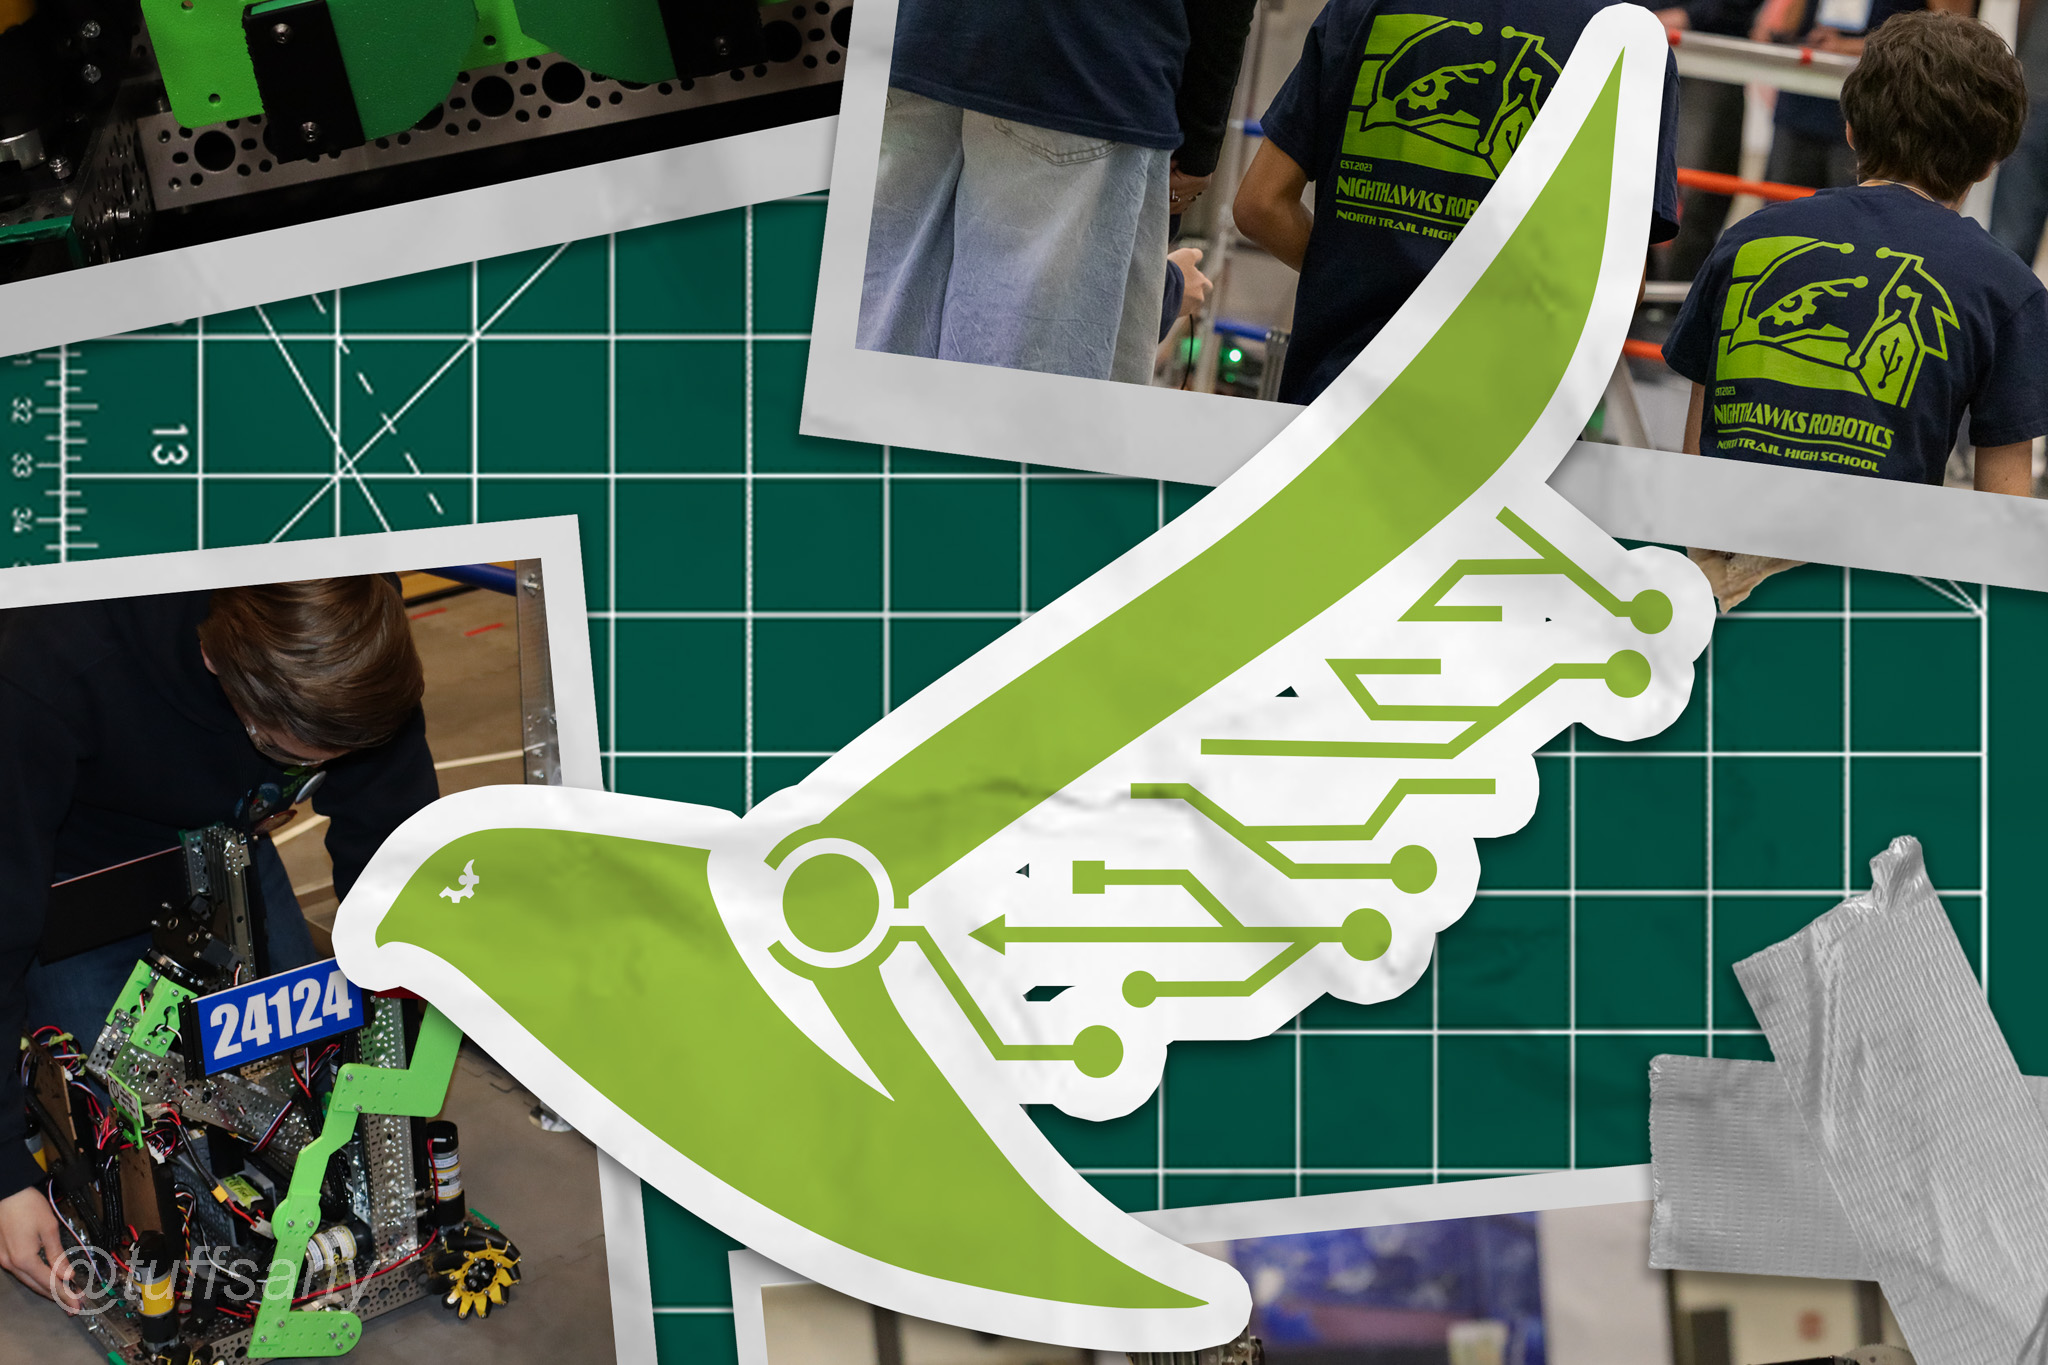
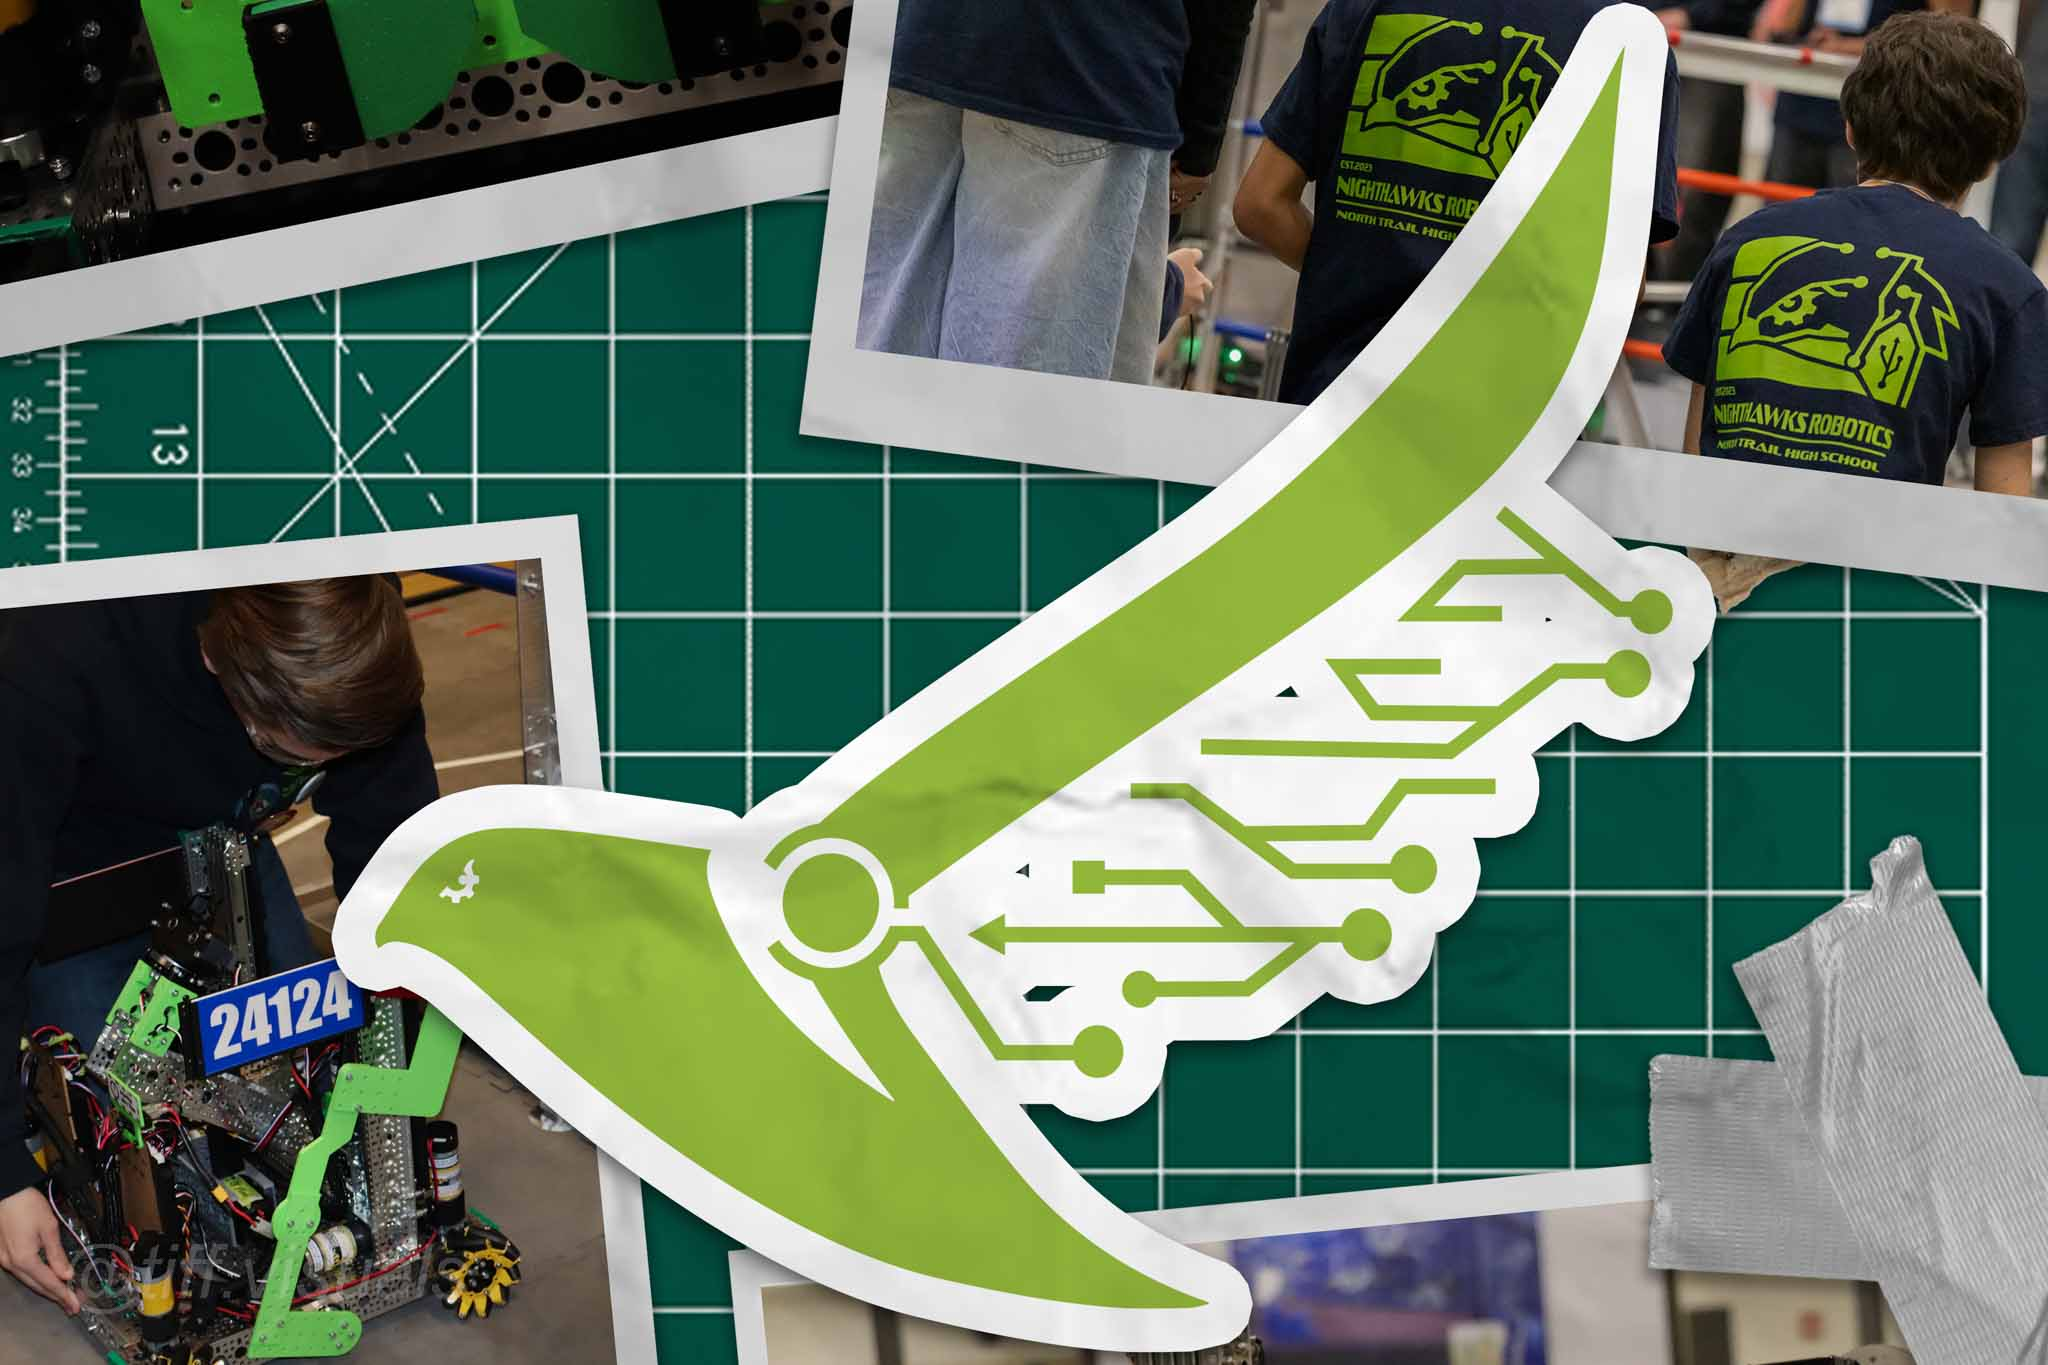
update images
adding new team photos, downsizing images and correcting watermark

diff --git a/src/styles/style.css b/src/styles/style.css
@@ -45,7 +45,7 @@ main {
 
 .segment img{
   width: 100%;
-  max-width: 600px;
+  max-width: 650px;
   height: auto;
   object-fit: cover;
 }
@@ -273,9 +273,10 @@ main {
 img#teamPhoto,
 img#miscPhoto,
 img.full {
-  width: 100%;
+  max-width: 900px;
   object-fit: cover;
   margin: 20px 0;
+  padding-top: 5px;
 }
 
 /* Contact */
